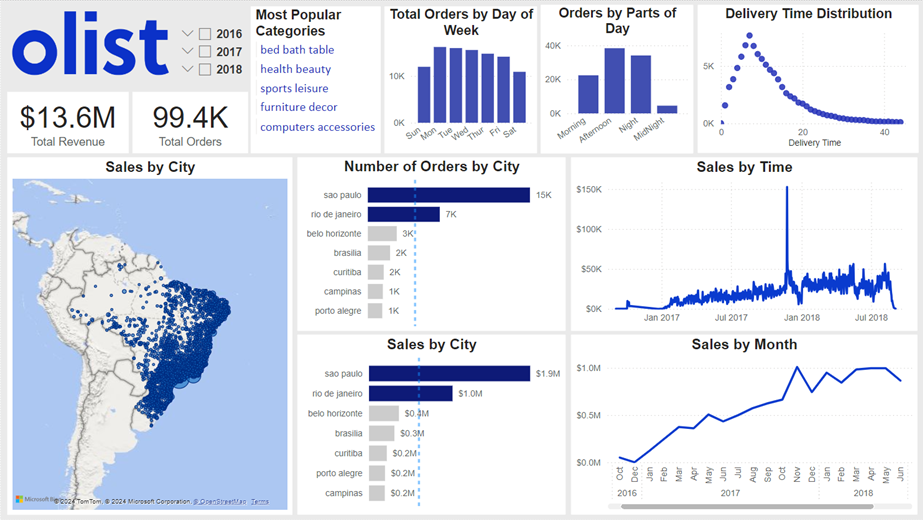
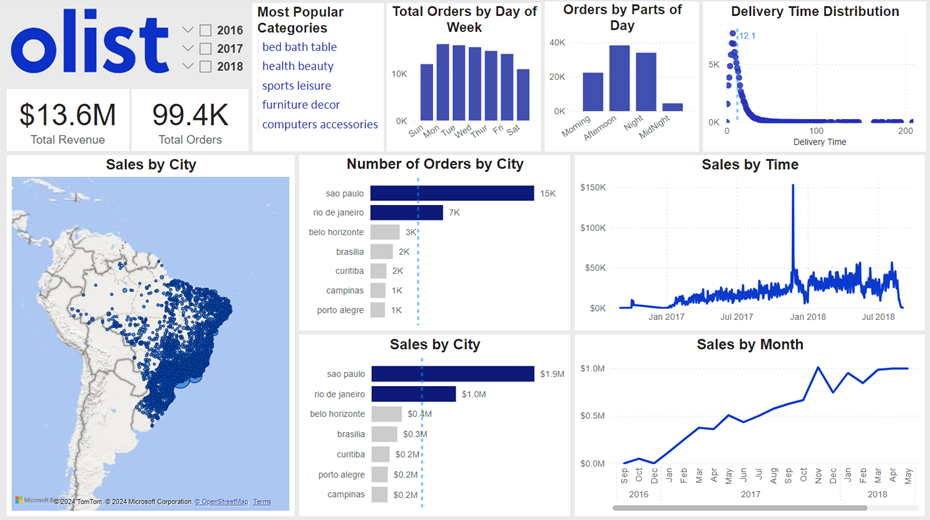
readme update

diff --git a/README.md b/README.md
@@ -1,5 +1,30 @@
-# Olist- Brazilian E-Commerce EDA
+# Brazilian E-Commerce EDA
 An exploratory data analysis to get insights from E-Commerce in Brazil.
+
+![Dashboard](visuals\dashboard.png)
+*Power BI Dashboard*
+# Project Description
+This project leverages PostgreSQL and Power BI to analyze and gain insights into Brazil's e-commerce landscape. Using a real commercial dataset provided by Olist, Brazil's largest online department store, the analysis covers 100k orders from 2016-2018 across multiple marketplaces. The dataset includes detailed information on order status, price, payment, freight performance, customer location, product attributes, and customer reviews.
+
 # Summary of Insights
+### 1. Growing Trend 
+There is a growing trend in Brazilian e-commerce from 2016 to 2018. Revenue peaked on Nov. 24, 2017, with a value of $152K, indicating the importance of Black Friday.
+### 2. Customer Behavior
+Brazilians seem to prefer ordering online during weekday afternoons(12-18pm) and nights (18-24pm). Marketing and promotion plans can be made based on these characteristics.
+### 3. Popular Categories
+In terms of the number of purchases, bed, bath, table, health and beauty, sports and leisure, furniture and decor, and computers and accessories are the most popular categories.
+### 4. Top Performing Regions
+Most of the revenue comes from the southeast and south regions of Brazil, with the state of São Paulo contributing over 40% of the revenue and orders.
+### 5. Delivery Time
+The average delivery time is about 12 days, with a standard deviation of about 10 days. There are quite a few delayed packages, with delivery times ranging from 100 to 200 days.
 
 # Recommendations and Next Steps
+
+### Optimize Promotion Timing:
+Conduct further analysis to identify specific time periods and holidays with the highest likelihood of orders. Use these insights to plan targeted promotion campaigns.
+
+### Improve Delivery Efficiency:
+Investigate the reasons for delivery times exceeding a month. Consider switching carriers for regions with frequent delays and enhancing customer service to address delivery issues proactively.
+
+### Expand Market Reach:
+Analyze the common characteristics of top-performing cities. Identify regions with similar traits but lower revenue, and implement strategies to boost customer acquisition and order volumes in these areas.
